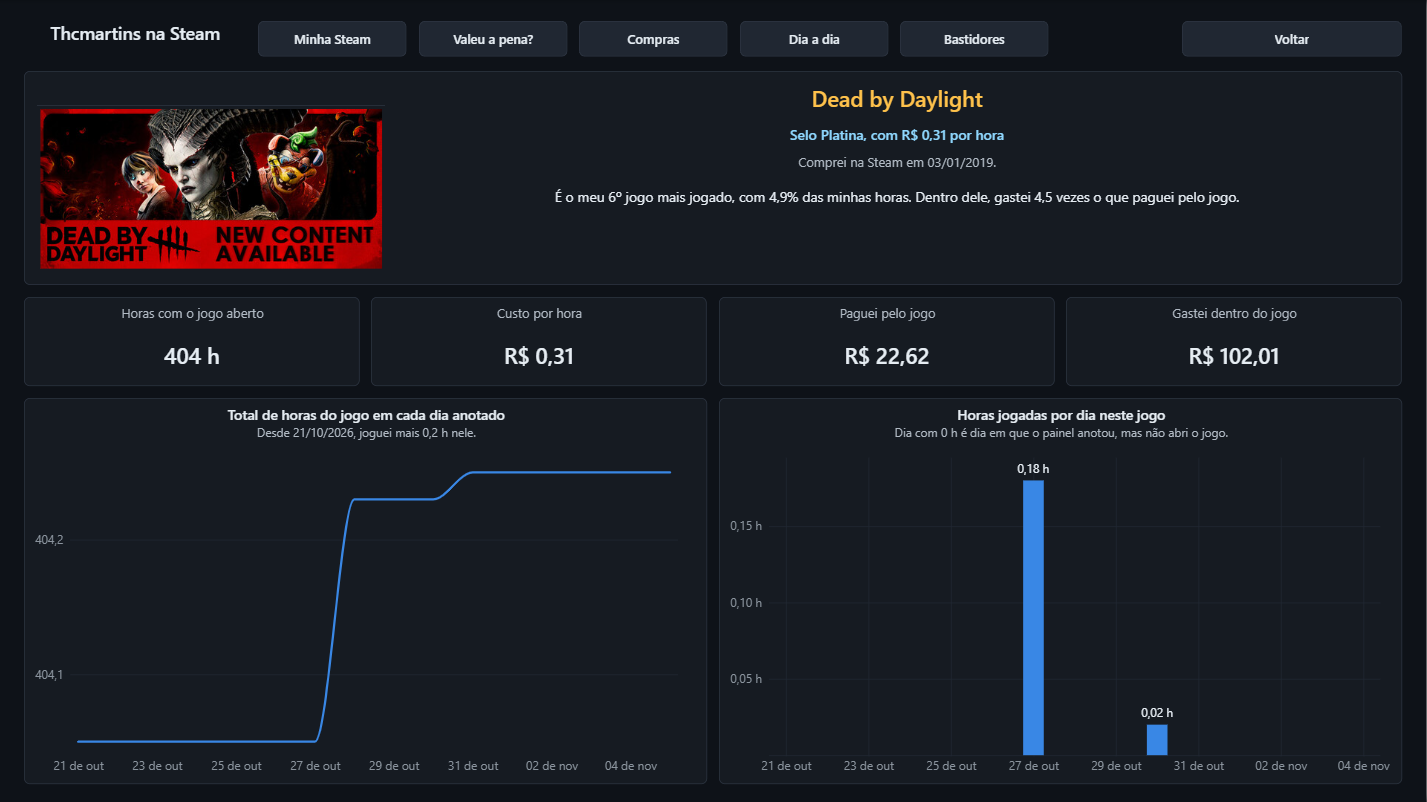
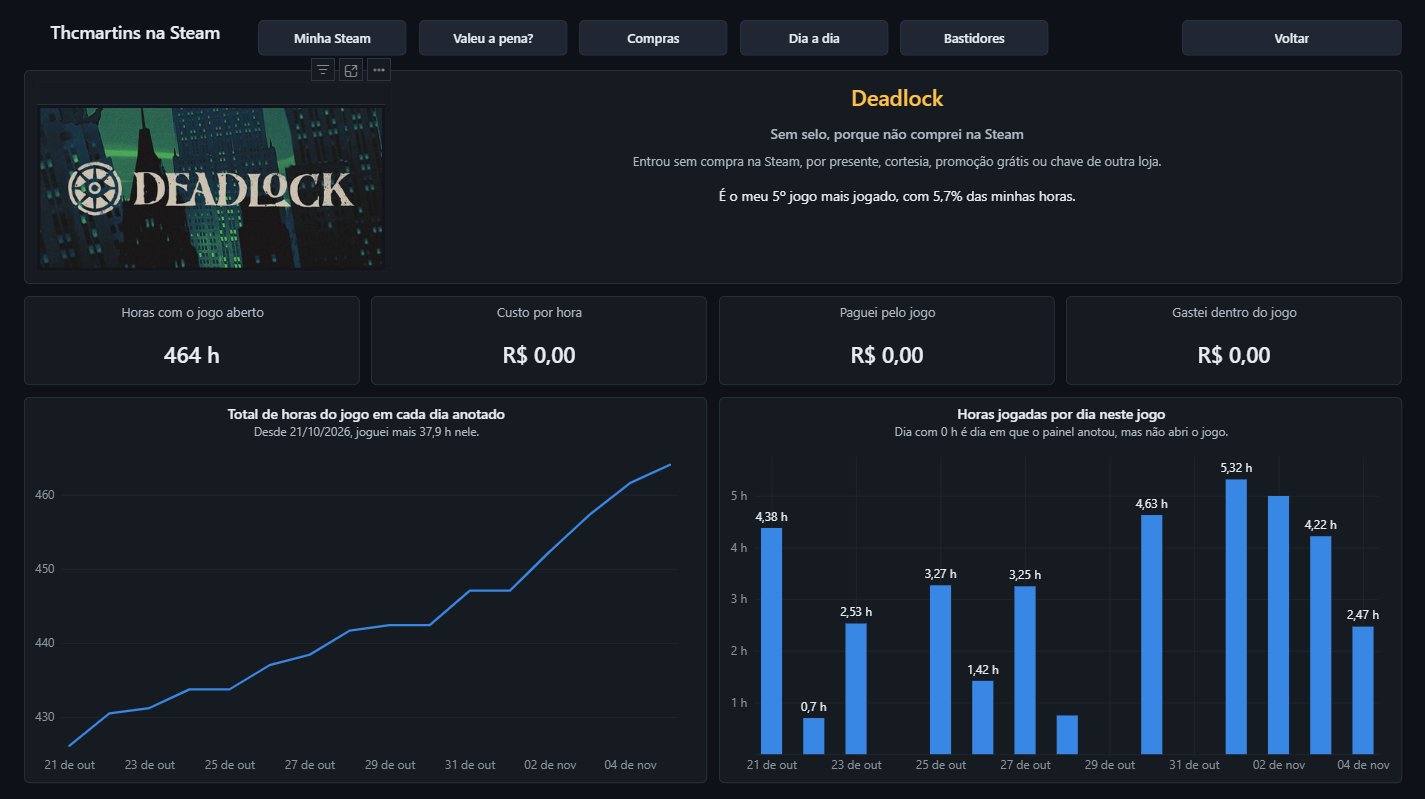
Close v1 with the final validation and README
Record the 9 success criteria in docs/validation.md, checked against
the Steam library, the purchase history page and hand calculations.
The README gains a Mermaid flow diagram, the main business rules, the
create_tables step before the tests on a fresh clone and the Deadlock
detail print.

The collector now connects with verify-full against Supabase's root CA,
a row reloaded from the purchase history lives in exactly one table
(purchases or quarantine), the unused 'licenses' origin leaves the
quarantine check, line charts are drawn straight, and the spec no
longer lists Pandas.

diff --git a/src/purchase_history.py b/src/purchase_history.py
@@ -265,8 +265,15 @@ def load_history(conn, user_id, page, games, aliases):
                        SET original_content = EXCLUDED.original_content, reason = EXCLUDED.reason""",
                     (key, user_id, row["date"], content, reason),
                 )
+                # Accepted on an earlier load (the rules or the catalog changed): it leaves purchases,
+                # so each row of the page is in exactly one table
+                conn.execute("DELETE FROM purchase_items WHERE purchase_key = %s", (key,))
+                conn.execute("DELETE FROM purchases WHERE purchase_key = %s", (key,))
                 quarantined += 1
                 continue
+            # Quarantined on an earlier load (e.g. a new alias, or a game that reached the catalog
+            # after that load): it leaves the quarantine
+            conn.execute("DELETE FROM quarantine WHERE quarantine_key = %s", (key,))
             # A refund points to the purchase it cancels (rule 5): same transaction id, type Purchase
             refunded_key = (transaction_key(user_id, row["transaction_id"], "Purchase")
                             if purchase_type == "refund" and row["transaction_id"] else None)

diff --git a/tests/test_purchase_history.py b/tests/test_purchase_history.py
@@ -166,6 +166,18 @@ def test_loading_the_same_page_twice_does_not_duplicate(conn):
     assert (count("purchases"), count("quarantine")) == (7, 11)
 
 
+def test_a_row_moves_between_quarantine_and_purchases_when_the_catalog_changes(conn):
+    count = lambda table: conn.execute(f"SELECT count(*) FROM {table} WHERE user_id = %s", (USER,)).fetchone()[0]
+    load(conn)  # "Unknown Indie Game" is not in the library yet: quarantine
+    conn.execute("INSERT INTO games (app_id, name) VALUES (900006, 'Unknown Indie Game')")
+    games = {**GAMES, 900006: "Unknown Indie Game"}
+    assert load_history(conn, USER, PAGE, games, ALIASES) == {"rows": 18, "accepted": 8, "quarantined": 10}
+    assert (count("purchases"), count("quarantine")) == (8, 10)  # the row left the quarantine
+    # And back: without the game the row is quarantined again and leaves purchases
+    assert load(conn) == {"rows": 18, "accepted": 7, "quarantined": 11}
+    assert (count("purchases"), count("quarantine")) == (7, 11)
+
+
 def test_payment_method_recipient_wallet_balance_and_transaction_id_are_not_stored(conn):
     load(conn)
     stored = " ".join(str(v) for row in conn.execute(

diff --git a/src/db.py b/src/db.py
@@ -11,8 +11,8 @@ def get_connection():
         dbname=os.environ["POSTGRES_DB"],
         user=os.environ["POSTGRES_USER"],
         password=os.environ["POSTGRES_PASSWORD"],
-        # "require" for Supabase: TLS on, but the server certificate is not verified
-        # (that would be "verify-full" with Supabase's root CA, as the Power BI tunnel does).
+        # "verify-full" for Supabase: the server certificate chain must lead to Supabase's root CA
+        # (PGSSLROOTCERT, read by libpq) and the certificate must carry the host name, as the Power BI tunnel checks.
         # Missing or empty = "prefer": TLS only if the server offers it, and local Docker does not.
         sslmode=os.environ.get("POSTGRES_SSLMODE") or "prefer",
     )

diff --git a/README.md b/README.md
@@ -1,8 +1,6 @@
 # steam-cost-per-hour
 
-> **EN:** A case study of my own Steam account. A Python pipeline on GitHub Actions stores a daily snapshot of my playtime from the Steam Web API in PostgreSQL (Supabase), SQL views combine it with my purchase history, and a Power BI dashboard shows the cost per hour of each game. Work in progress.
-
-> Este README ainda é provisório, porque o projeto está em construção. A versão final, com o diagrama do fluxo e prints do painel, fica pronta no fim da v1.
+> **EN:** A case study of my own Steam account. A Python pipeline on GitHub Actions stores a daily snapshot of my playtime from the Steam Web API in PostgreSQL (Supabase), SQL views combine it with my purchase history, and a Power BI dashboard shows the cost per hour of each game. I checked hours and paid values against my Steam library and purchase history page, and every dashboard fact has an independent SQL check.
 
 ![Demonstração do painel no Power BI: navegação entre as páginas, dica de um jogo, ficha do jogo e filtros](docs/images/dashboard-demo.gif)
 
@@ -15,6 +13,33 @@ Um estudo de caso da minha própria conta na Steam. Um pipeline de dados junta a
 
 A especificação completa está em [docs/spec.md](docs/spec.md) e o plano de trabalho em [docs/tickets.md](docs/tickets.md).
 
+## Fluxo dos dados
+
+```mermaid
+flowchart LR
+    API["Steam Web API<br>minutos de cada jogo"] -->|todo dia| GHA["Python no<br>GitHub Actions"]
+    LOJA["Loja da Steam<br>preço, capa e gêneros"] -->|só jogos novos| GHA
+    HIST["Histórico de compras<br>HTML salvo pelo navegador"] -->|carga manual| PC["Python no<br>meu computador"]
+    GHA --> DB[("PostgreSQL no Supabase<br>snapshots, compras e views")]
+    PC --> DB
+    DB -->|túnel TLS, modo Import| PBI["Power BI"]
+```
+
+A coleta roda sozinha uma vez por dia, grava o total de minutos de cada jogo e consulta a loja só para jogos novos. O histórico de compras eu carrego à mão, porque a Steam não tem API nem exportação para ele. As views calculam o custo e as horas por dia. O Power BI importa esse resultado, e as medidas DAX fazem os totais, os selos e as frases do painel.
+
+## Regras de negócio
+
+- O custo por hora é o que gastei com o jogo (o que paguei por ele, mais DLCs e compras dentro do jogo) dividido pelas horas com o jogo aberto. Só é calculado para jogos com horas e com valor conhecido.
+- Todo valor carrega a origem, nesta ordem de prioridade. É "gratuito" quando jogo sem ter a licença, como nos free-to-play, e "pago" quando a compra está no meu histórico e não foi reembolsada. Com o histórico completo carregado, um jogo com licença e sem compra fica "sem compra na Steam", com valor R$ 0, como presentes, cortesias e promoções de jogo grátis. Sem o histórico, o valor é "estimado" pelo preço cheio da loja, ou fica "sem valor conhecido" se a loja não tem preço, e aí o jogo fica fora das somas.
+- Quem decide se um jogo é gratuito é a licença da minha conta. Um jogo que comprei e depois virou gratuito na loja continua pago para mim.
+- O ranking de custo por hora só tem jogos pagos ou estimados com 1 hora ou mais. Os gratuitos e os sem compra na Steam ficam num ranking próprio, ordenado por horas.
+- Dinheiro parado é o valor dos jogos comprados que nunca abri. Os que abri por menos de 1 hora ficam num grupo à parte, o dos mal começados.
+- O valor de um pacote é dividido entre os jogos pelo preço de tabela de cada um, ou em partes iguais se algum não tiver preço. Uma compra reembolsada se anula com o estorno, e num reembolso parcial saem só os itens devolvidos.
+- As horas de cada dia são a diferença entre duas coletas seguidas e ficam no dia anterior ao da coleta, que roda entre a manhã e o começo da tarde. Um total que diminui vai para a quarentena em vez de virar hora negativa.
+- Programas como o Wallpaper Engine, servidores de teste e playtests ficam guardados no banco, mas fora das contas, numa lista com o motivo na página Bastidores.
+
+A lista completa, com 34 regras, está na [especificação](docs/spec.md).
+
 ## Stack
 
 Python (Requests, BeautifulSoup, psycopg), PostgreSQL (Supabase na nuvem), GitHub Actions, Docker, pytest e Power BI (DAX e Power Query, projeto PBIP).
@@ -23,7 +48,7 @@ Python (Requests, BeautifulSoup, psycopg), PostgreSQL (Supabase na nuvem), GitHu
 
 A API da Steam informa só o total acumulado de minutos de cada jogo, sem histórico. Por isso a coleta diária grava um snapshot desse total em `playtime_snapshots`, e a chave primária garante uma linha por usuário, jogo e dia. As horas de cada dia saem da diferença entre um snapshot e o anterior, calculada no SQL com a função de janela `LAG`. Quando falta um dia de coleta, o intervalo inteiro vai para o último dia, e a coluna `days_covered` mostra quantos dias ele cobre. Se um total diminui, ele aparece na view `collection_quarantine` com o motivo, em vez de virar hora negativa.
 
-Rodar a coleta duas vezes no mesmo dia não duplica nada, porque ela grava com `INSERT ... ON CONFLICT DO UPDATE` e só atualiza o snapshot daquele dia. O catálogo da loja é incremental e só consulta os jogos que ainda não têm preço gravado, com 1,5 s de pausa entre pedidos. Um preço já gravado nunca é sobrescrito.
+Rodar a coleta duas vezes no mesmo dia não duplica nada, porque ela grava com `INSERT ... ON CONFLICT DO UPDATE` e só atualiza o snapshot daquele dia. O catálogo da loja é incremental: cada jogo é consultado uma vez só, com 1,5 s de pausa entre pedidos, e um preço já gravado nunca é sobrescrito.
 
 O histórico de compras não tem API. Salvo a página da Steam pelo navegador, e um script lê o HTML com BeautifulSoup no meu computador. Cada linha vira compra ou vai para a tabela `quarantine` com o motivo (crédito de carteira ou compra em outra moeda, por exemplo). Um hash SHA-256 de cada linha permite carregar o mesmo arquivo de novo sem duplicar nada. Pacotes são divididos entre os jogos pelo preço de tabela de cada um, em centavos inteiros e pelo método dos maiores restos, para que a soma das partes bata com o valor pago.
 
@@ -40,14 +65,17 @@ cp .env.example .env
 # 2. Suba o banco PostgreSQL e o ambiente Python
 docker compose up -d
 
-# 3. Rode os testes dentro do ambiente
+# 3. Crie as tabelas e as views no banco local
+docker compose exec app python -m src.create_tables
+
+# 4. Rode os testes dentro do ambiente
 docker compose exec app pytest
 
 # Para desligar
 docker compose down
 ```
 
-O banco local fica acessível pelo Windows (pgAdmin, DBeaver, Power BI) em `localhost:5433`, com o usuário e a senha definidos no `.env`.
+Para os testes, basta a senha do banco no `.env`. A chave da API, o `STEAM_USERS` e a chave do hash só são necessários para coletar. O banco local fica acessível pelo Windows (pgAdmin, DBeaver, Power BI) em `localhost:5433`, com o usuário e a senha definidos no `.env`.
 
 ## Pipeline
 
@@ -65,7 +93,7 @@ As contas coletadas ficam na variável `STEAM_USERS` (`steamid:apelido`, separad
 
 ## Banco na nuvem (Supabase)
 
-Para usar o Supabase, o código é o mesmo e só mudam as variáveis de ambiente. Uso o *Session pooler* porque a conexão direta do Supabase é só IPv6, e os runners do GitHub não têm IPv6. Crie o `.env.cloud` com os dados do *Session pooler* do projeto e `POSTGRES_SSLMODE=require` (veja o `.env.example`), e use o serviço `app-cloud`:
+Para usar o Supabase, o código é o mesmo e só mudam as variáveis de ambiente. Uso o *Session pooler* porque, no plano gratuito, a conexão direta do Supabase é só IPv6, e os runners do GitHub não têm IPv6. Crie o `.env.cloud` com os dados do *Session pooler* do projeto, `POSTGRES_SSLMODE=verify-full` e `PGSSLROOTCERT=/app/tunnel/supabase-root-ca-2021.crt` (o caminho dentro do container; veja o `.env.example`), e use o serviço `app-cloud`. Com `verify-full`, a conexão só abre se a cadeia do certificado levar à CA raiz do Supabase e o certificado tiver o nome do servidor, a mesma conferência que o túnel do Power BI faz:
 
 ```bash
 docker compose run --rm app-cloud python -m src.create_tables
@@ -74,7 +102,7 @@ docker compose run --rm app-cloud python -m src.run_daily
 
 ## Coleta automática (GitHub Actions)
 
-O workflow `.github/workflows/daily-collection.yml` roda o pipeline uma vez por dia num runner do GitHub, e os dados vão para o Supabase. Ele está agendado para as 03:17 (horário de Brasília) e também pode ser disparado pelo botão *Run workflow*. Na prática, o GitHub costuma iniciar execuções agendadas com atraso. Em outubro de 2026, elas começaram entre 8h05 e 10h07, umas 5 a 7 horas depois do horário marcado. O agendamento de madrugada deixa folga para esse atraso, e a data do snapshot é calculada no fuso de São Paulo (o runner usa UTC), então o dia registrado não muda. As credenciais ficam nos segredos do repositório.
+O workflow `.github/workflows/daily-collection.yml` roda o pipeline uma vez por dia num runner do GitHub, e os dados vão para o Supabase. Ele está agendado para as 03:17 (horário de Brasília) e também pode ser disparado pelo botão *Run workflow*. Na prática, o GitHub costuma iniciar execuções agendadas com atraso. De 23/10 a 05/11/2026, as 14 execuções agendadas começaram entre 8h04 e 12h58, de quase 5 a quase 10 horas depois do horário marcado. O agendamento de madrugada deixa folga para esse atraso, e a data do snapshot é calculada no fuso de São Paulo (o runner usa UTC), então o dia registrado não muda. As credenciais ficam nos segredos do repositório.
 
 Cada usuário é coletado na própria transação, então a falha de um (um perfil privado, por exemplo) desfaz só os dados dele. Se qualquer parte falhar, o script termina com código de saída 1, a execução fica vermelha na aba Actions e o GitHub envia um e-mail.
 
@@ -88,7 +116,7 @@ O Supabase publica as tabelas do schema `public` numa API REST automática (Post
 
 ![Página Valeu a pena?: ranking de custo por hora com selos, placar entre jogos comprados e não comprados e lista dos jogos sem compra](docs/images/valeu-a-pena.png)
 
-![Ficha do jogo Dead by Daylight: selo, origem do valor, horas, gastos e a evolução das horas por dia](docs/images/ficha-do-jogo.png)
+![Ficha do jogo Deadlock: capa, origem do valor (sem compra na Steam, por isso sem selo), horas, posição na conta e os gráficos do total de horas e das horas por dia](docs/images/ficha-do-jogo.png)
 
 O painel do Power BI está em `dashboard/`, salvo como projeto (`.pbip`), com o modelo semântico em TMDL e o relatório em PBIR. São arquivos de texto, então cada medida DAX ou visual alterado aparece no diff do Git. O painel importa as views do banco (modo Import), e o servidor e o nome do banco são parâmetros do Power Query, o que permite apontar o mesmo arquivo para o banco local ou para o Supabase. O cache com os dados importados fica fora do Git.
 
@@ -97,6 +125,10 @@ O Supabase assina os certificados do banco com uma autoridade certificadora (CA)
 ## Privacidade
 
 Credenciais ficam só no `.env` (ignorado pelo Git) e nos segredos do GitHub. O arquivo do histórico de compras é lido no meu computador e nunca vai para o repositório, e a carga não grava forma de pagamento, saldo da carteira, destinatário de presente nem número da transação. O SteamID só entra no banco como HMAC-SHA256, um hash com chave secreta. Um SHA-256 simples não bastaria, porque os SteamIDs ficam numa faixa conhecida e daria para calcular o hash de cada um até achar o meu. As mensagens de erro, que aparecem nos logs públicos do Actions, citam o apelido ou a posição na lista, nunca o SteamID ou a chave da API.
+
+## Validação
+
+Conferi os números principais com fontes que não passam pelo meu código: a biblioteca da Steam, a página de Histórico de compras e contas feitas à mão. Os 9 critérios de sucesso da especificação e o resultado de cada conferência estão em [docs/validation.md](docs/validation.md). A coleta rodou sozinha todos os dias de 23/10 a 05/11/2026: as 14 execuções agendadas terminaram com sucesso, com 79 snapshots em cada dia.
 
 ## Próximos passos
 

diff --git a/docs/tickets.md b/docs/tickets.md
@@ -96,7 +96,7 @@ Ao concluir um ticket, marque os critérios de aceite com [x].
 **Blocked by:** 03, 05.
 
 **Acceptance criteria:**
-- [x] A coleta roda no horário agendado sem nenhuma ação manual, e a execução aparece na aba de ações do repositório. Conferido: 5 execuções seguidas com gatilho schedule e sucesso (23 a 27/10/2026). O GitHub atrasou o início em 5 a 7 horas (rodaram entre 08:05 e 10:07), sem mudar a data dos snapshots.
+- [x] A coleta roda no horário agendado sem nenhuma ação manual, e a execução aparece na aba de ações do repositório. Conferido: 5 execuções seguidas com gatilho schedule e sucesso (23 a 27/10/2026). O GitHub atrasou o início em 5 a 7 horas (rodaram entre 08:04 e 10:07), sem mudar a data dos snapshots.
 - [x] Cada execução gera um registro na tabela de execuções, com status e quantidade de jogos. Conferido em 22/10/2026: as execuções no GitHub batem com as linhas de pipeline_runs no Supabase (status, horário e 79 jogos).
 - [x] Uma falha forçada de teste (por exemplo, chave inválida) gera registro de falha e e-mail do GitHub. Conferido em 22/10/2026: HTTP 401 registrado como failed, execução vermelha e e-mail recebido pelo dono.
 - [x] Um usuário de teste com perfil privado gera registro de falha só para ele, sem derrubar a execução. Coberto por teste automático com usuários fictícios e conferido em 27/10/2026 com uma conta real de familiar, que consentiu e estava com perfil privado: execução partial (79 jogos do dono, falha só da conta de teste), nenhum dado dela gravado e conta removida dos segredos logo depois.
@@ -212,7 +212,7 @@ Ao concluir um ticket, marque os critérios de aceite com [x].
 - [x] Cinco fatos conferidos contra a própria Steam (biblioteca e página de Histórico de compras).
 - [x] Toda métrica de custo mostra a origem do valor (regra 2), e um placar compara o gasto em jogos pagos e em jogos sem custo de acesso.
 - [x] A página Dia a dia tem os filtros de período, origem do valor e tempo de jogo, e cada filtro atualiza todos os visuais da página. Selecionar um jogo numa tabela não esvazia as outras.
-- [x] Uma revisão independente com o checklist da pesquisa ("parece IA ou feito por gente?") dá nota 8 ou mais em todas as páginas.
+- [x] Uma revisão independente de design e texto, com o checklist da pesquisa, dá nota 8 ou mais em todas as páginas.
 - [x] A spec registra o novo objetivo, as user stories e as regras novas.
 - [x] O GIF de demonstração mostra filtros, clique no jogo e navegação, em menos de 30 segundos (vindo do ticket 11). Gravado em 05/11/2026: docs/images/dashboard-demo.gif, 27 s e 4,2 MB.
 - [x] Verificado se é possível publicar o painel em link aberto com a conta disponível, e a resposta registrada (vindo do ticket 11). Resposta em 05/11/2026: não é possível. "Publicar na Web" exige entrar no serviço do Power BI com uma conta de trabalho ou de escola, e o autor só tem contas pessoais. O painel é apresentado pelo GIF e pelos prints no README, e o arquivo .pbip fica no repositório para quem tiver o Power BI Desktop.
@@ -226,8 +226,8 @@ Ao concluir um ticket, marque os critérios de aceite com [x].
 **Blocked by:** 06, 07, 11.
 
 **Acceptance criteria:**
-- [ ] Os 8 critérios de sucesso da especificação foram conferidos, e o resultado de cada um está registrado.
-- [ ] O GitHub Actions mostra 7 execuções diárias seguidas com sucesso.
-- [ ] O README explica em poucos segundos o que o projeto faz, mostra o fluxo dos dados, as regras de negócio principais e como rodar o ambiente local.
-- [ ] O README tem prints do painel e o GIF de demonstração.
-- [ ] Nenhuma credencial, SteamID em texto aberto ou histórico real existe em todo o histórico do repositório.
+- [x] Os 9 critérios de sucesso da especificação foram conferidos, e o resultado de cada um está registrado. Conferido em 05/11/2026: os 9 passaram, com fonte, data e resultado de cada um em docs/validation.md.
+- [x] O GitHub Actions mostra 7 execuções diárias seguidas com sucesso. Conferido: 14 execuções agendadas seguidas com sucesso, de 23/10 a 05/11/2026, com 79 snapshots em cada dia.
+- [x] O README explica em poucos segundos o que o projeto faz, mostra o fluxo dos dados, as regras de negócio principais e como rodar o ambiente local. Diagrama do fluxo em Mermaid, seção de regras de negócio e o passo de criar as tabelas antes dos testes num clone novo.
+- [x] O README tem prints do painel e o GIF de demonstração. GIF no topo e prints de Minha Steam, Valeu a pena? e da ficha do Deadlock.
+- [x] Nenhuma credencial, SteamID em texto aberto ou histórico real existe em todo o histórico do repositório. Conferido em 05/11/2026 nos 143 commits, contando os ramos de backup locais: 0 ocorrências do SteamID, da chave da API, da chave do hash e das senhas, e nenhum .env ou histórico de compras real versionado.

diff --git a/docs/validation.md b/docs/validation.md
@@ -1,0 +1,85 @@
+# Validação da v1
+
+Conferência final dos 9 critérios de sucesso da [especificação](spec.md), feita em 05/11/2026 com os dados do Supabase. Cada critério usa uma fonte que não passa pelo código: a biblioteca da Steam, a página de Histórico de compras, o perfil da Steam, a aba Actions do GitHub ou uma conta feita à mão. As consultas ao banco rodaram numa sessão só de leitura.
+
+## 1. Horas jogadas
+
+Sorteei 5 jogos com horas (semente 20261105, para o sorteio poder ser repetido) e comparei as horas do banco com as da biblioteca da Steam.
+
+| Jogo | Banco | Biblioteca |
+|---|---|---|
+| Dying Light | 48,07 h | 48,1 h |
+| Enshrouded | 15,05 h | 15 h |
+| Destiny 2 | 5,32 h | 5,3 h |
+| Ready or Not | 6,40 h | 6,4 h |
+| Fallout 4 | 83,25 h | 83,2 h |
+
+Resultado: passou. Os 5 batem, com a biblioteca arredondando para uma casa decimal.
+
+## 2. Valores pagos
+
+| Caso | Banco | Página de Histórico de compras |
+|---|---|---|
+| Pacote: Cities: Skylines com 3 expansões, 22/05/2021 | R$ 47,84, dividido em 4 × R$ 11,96 | R$ 47,84 na mesma linha |
+| Reembolso: The Witcher 3, 17/09/2020 | compra e estorno se anulam, os dois na quarentena com o motivo | compra riscada e estorno |
+| Presente enviado: NieR:Automata, 03/10/2020 | R$ 53,50 na quarentena, fora do meu gasto | compra de presente, R$ 53,50 |
+| Compra simples: No Rest for the Wicked, 03/06/2026 | R$ 81,89 | R$ 81,89 |
+| Compra simples: Dead by Daylight: Jason, 07/08/2026 | R$ 17,49 | R$ 17,49 |
+
+Resultado: passou.
+
+## 3. Contagem do histórico
+
+O arquivo tem 191 linhas de transação, contadas com grep direto no HTML, sem o script de carga. No banco, são 105 compras aceitas e 86 linhas na quarentena, total de 191. Nenhuma linha da quarentena está sem motivo.
+
+Resultado: passou.
+
+## 4. Coleta diária
+
+- A aba Actions mostra 14 execuções agendadas seguidas com sucesso, de 23/10 a 05/11/2026.
+- Cada um desses 14 dias tem 79 snapshots, um por item da biblioteca, e nenhum dia ficou sem coleta.
+- A biblioteca no banco tem 79 itens: 54 com licença e 25 gratuitos jogados sem licença.
+- O contador "Jogos" do perfil mostra 52, o mesmo de 16/10/2026.
+- Diferenças explicadas: os 25 gratuitos não entram no contador, e dos 54 itens com licença, 2 são itens de teste ou programas que o contador também não inclui (54 − 2 = 52).
+
+Resultado: passou.
+
+## 5. Painel
+
+| Jogo | Gasto (Histórico de compras) | Horas (biblioteca) | Conta à mão | Painel |
+|---|---|---|---|---|
+| PAYDAY 2 | R$ 2,19 + R$ 8,67 de extras | 44,1 h | R$ 10,86 ÷ 44,13 h = R$ 0,25 | R$ 0,25 |
+| Hunt: Showdown 1896 | R$ 31,15 + R$ 11,05 de extras | 148,4 h | R$ 42,20 ÷ 148,37 h = R$ 0,28 | R$ 0,28 |
+| Dying Light: The Beast | R$ 186,75 | 35,5 h | R$ 186,75 ÷ 35,48 h = R$ 5,26 | R$ 5,26 |
+
+O dinheiro parado é R$ 0,00. Os 3 jogos com 0 hora (Company of Heroes 2, Metro Exodus Enhanced Edition e Grand Theft Auto V Enhanced) não têm compra no histórico, então a soma manual também dá R$ 0,00 (regra 24). O painel mostra R$ 0,00.
+
+Resultado: passou.
+
+## 6. Testes
+
+Os 79 testes automáticos passam no PostgreSQL local do Docker. Eles cobrem pacote, reembolso, presente, moeda estrangeira, zero hora, horas que diminuem e jogo novo.
+
+Resultado: passou.
+
+## 7. Qualidade de dados
+
+Nenhuma chave duplicada (snapshots por usuário, jogo e dia, e itens por compra), nenhum valor negativo em compras, itens, valor do jogo, gasto extra ou horas por dia, e nenhum jogo sem nome no catálogo.
+
+Resultado: passou.
+
+## 8. Privacidade
+
+- No banco, o SteamID real não aparece em nenhuma das 21 colunas de texto, e todo user_id é um HMAC-SHA256 em hexadecimal.
+- No repositório, a varredura de todo o histórico do Git (143 commits, contando os ramos de backup locais) não encontrou o SteamID, a chave da API, a chave do hash nem as senhas do banco, e nenhum arquivo .env ou de histórico de compras real foi versionado.
+- Os SteamIDs que aparecem nos testes são fictícios.
+
+Resultado: passou.
+
+## 9. Fatos do painel
+
+Conferido em 03/11/2026 (ticket 11b):
+- As 31 consultas de [fact_checks.sql](fact_checks.sql) batem com os números do painel.
+- 5 fatos batem com a própria Steam: as horas de Warframe e de Rainbow Six Siege na biblioteca e, no Histórico de compras, a primeira compra (GRID, 30/12/2014, R$ 24,81), a compra mais cara (Battlefield 6, R$ 299,00) e o maior desconto (The Crew 2, 98%).
+
+Resultado: passou.

diff --git a/docs/spec.md b/docs/spec.md
@@ -59,7 +59,7 @@ Um pipeline de dados que junta a biblioteca e as horas jogadas (coletadas todos 
 
 **Ferramentas e motivo de cada uma**
 
-1. Python com Pandas para transformação, por ser o padrão de mercado para manipulação de dados em Python.
+1. Python com psycopg para a coleta e a carga. A transformação fica em SQL, nas views do banco, para que o Power BI e as consultas de conferência usem a mesma regra.
 2. Requests para chamar a API e a loja, por ser simples e padrão de mercado.
 3. BeautifulSoup para ler o HTML do histórico de compras.
 4. PostgreSQL hospedado no Supabase (plano gratuito), porque a coleta roda na nuvem e precisa de um banco acessível pela internet.
@@ -152,7 +152,7 @@ Cada conferência usa uma fonte independente do código, nunca o próprio result
 4. Login automático na Steam ou qualquer coleta que exija a senha do usuário.
 5. Coleta de perfis de pessoas que não deram consentimento, mesmo que públicos.
 6. Docker na execução em nuvem (na v1 ele é só o ambiente local).
-7. Um site em que outras pessoas informam o próprio perfil e veem os seus dados (fase 2, decidido em 03/11/2026). O Power BI não serve para isso sem licença paga e controle de acesso por usuário. A fase 2 ganha uma especificação própria, que precisa resolver o histórico de compras enviado por terceiros (dado financeiro, LGPD), a coleta diária de cada usuário e o login oficial "Entrar com a Steam". A publicação do painel da v1 na web, com os dados do autor, continua no escopo.
+7. Um site em que outras pessoas informam o próprio perfil e veem os seus dados (fase 2, decidido em 03/11/2026). O Power BI não serve para isso sem licença paga e controle de acesso por usuário. A fase 2 ganha uma especificação própria, que precisa resolver o histórico de compras enviado por terceiros (dado financeiro, LGPD), a coleta diária de cada usuário e o login oficial "Entrar com a Steam". A publicação do painel da v1 na web, com os dados do autor, foi avaliada no ticket 11b e não é possível com conta pessoal, porque "Publicar na Web" exige conta de trabalho ou de escola. O painel é apresentado pelo GIF e pelos prints do README.
 8. Plataformas além da Steam (Epic, PlayStation, Xbox).
 9. Compras no jogo feitas fora da Steam. Não existe fonte confiável para elas: os sites de cada empresa exigem login, e uma planilha preenchida à mão foi descartada por ser insustentável (a pessoa não tem esses valores).
 10. Horas em jogos emprestados pela Biblioteca Familiar. A API principal não os devolve, e a de jogos recentes só cobriria o que foi jogado nas últimas 2 semanas, a partir do início da coleta. Avaliado e descartado em 16/10/2026.
